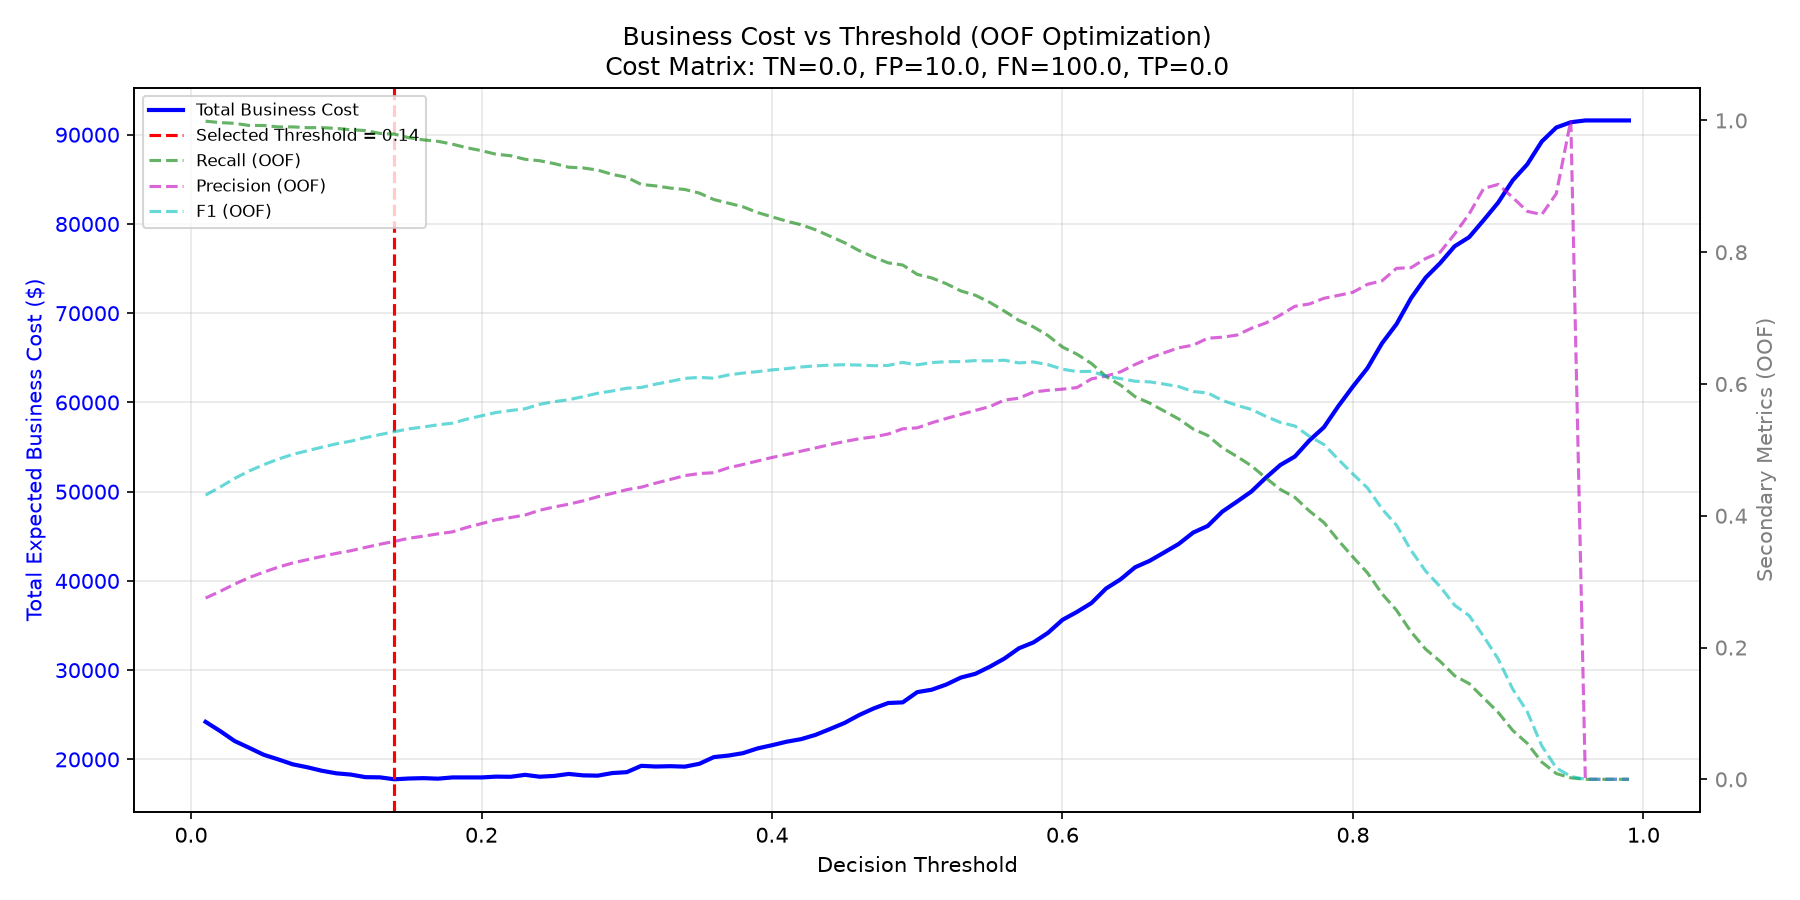
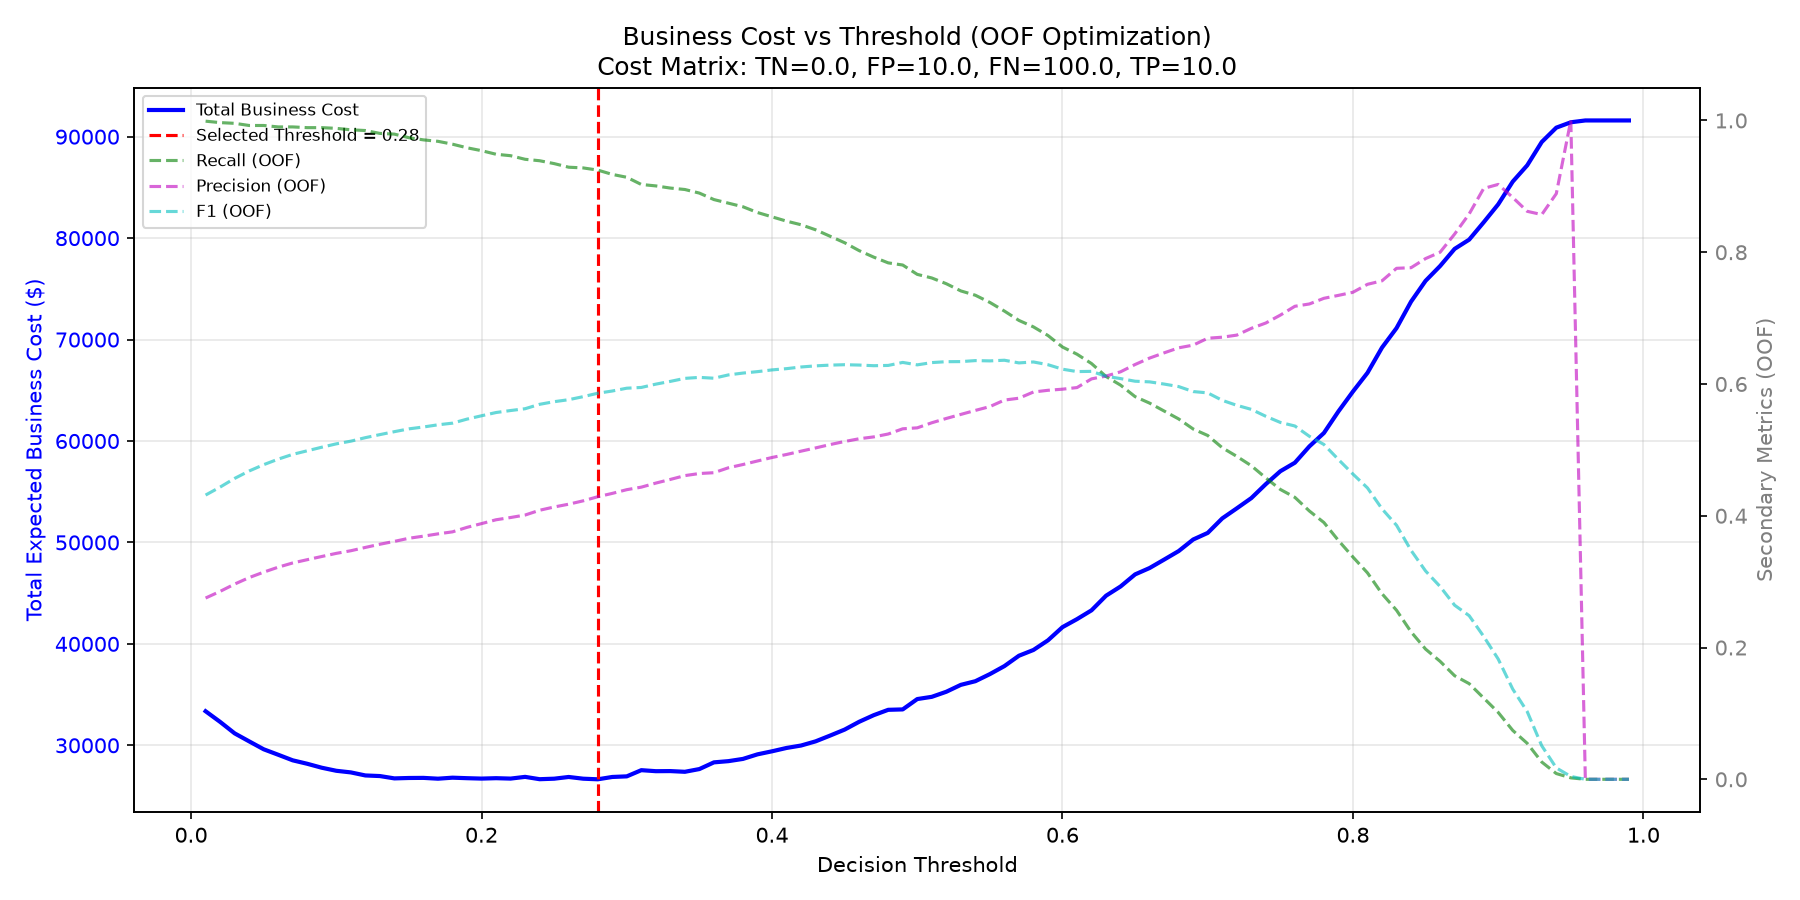
fix(phase11): correct default cost matrix TP to carry intervention cost

diff --git a/tests/test_business_threshold.py b/tests/test_business_threshold.py
@@ -47,7 +47,7 @@ class TestBusinessOptimization:
 
     def test_optimize_threshold_basic(self):
         y_true, y_proba = self._synthetic_oof_data()
-        costs = CostMatrix(cost_tn=0.0, cost_fp=10.0, cost_fn=100.0, cost_tp=0.0)
+        costs = CostMatrix(cost_tn=0.0, cost_fp=10.0, cost_fn=100.0, cost_tp=10.0)
         result = optimize_threshold_business(y_true, y_proba, costs)
         # With these costs, we expect the optimizer to favour higher recall
         # (i.e., lower threshold) because FN is expensive.
@@ -77,7 +77,7 @@ class TestBusinessOptimization:
         y_true, y_proba = self._synthetic_oof_data()
         # Balanced FP and FN costs → optimizer should pick threshold maximizing overall
         # accuracy (which is close to 0.5 for balanced data)
-        costs = CostMatrix(cost_tn=0.0, cost_fp=10.0, cost_fn=10.0, cost_tp=0.0)
+        costs = CostMatrix(cost_tn=0.0, cost_fp=10.0, cost_fn=10.0, cost_tp=10.0)
         result = optimize_threshold_business(y_true, y_proba, costs)
         # With symmetric costs, we expect threshold close to 0.5 (midpoint)
         assert 0.4 <= result.selected_threshold <= 0.6
@@ -86,12 +86,12 @@ class TestBusinessOptimization:
         y_true, y_proba = self._synthetic_oof_data()
         with pytest.raises(ValueError):
             # Negative FP cost
-            costs = CostMatrix(cost_tn=0.0, cost_fp=-5.0, cost_fn=10.0, cost_tp=0.0)
+            costs = CostMatrix(cost_tn=0.0, cost_fp=-5.0, cost_fn=10.0, cost_tp=10.0)
             optimize_threshold_business(y_true, y_proba, costs)
 
     def test_optimize_invalid_threshold_grid(self):
         y_true, y_proba = self._synthetic_oof_data()
-        costs = CostMatrix(cost_tn=0.0, cost_fp=10.0, cost_fn=100.0, cost_tp=0.0)
+        costs = CostMatrix(cost_tn=0.0, cost_fp=10.0, cost_fn=100.0, cost_tp=10.0)
         # Include an invalid threshold (>1) in custom grid
         with pytest.raises(ValueError):
             optimize_threshold_business(
@@ -104,7 +104,7 @@ class TestBusinessOptimization:
     def test_optimize_mismatch_lengths(self):
         y_true = [0, 1, 0]
         y_proba = [0.1, 0.9]
-        costs = CostMatrix(cost_tn=0.0, cost_fp=10.0, cost_fn=100.0, cost_tp=0.0)
+        costs = CostMatrix(cost_tn=0.0, cost_fp=10.0, cost_fn=100.0, cost_tp=10.0)
         with pytest.raises(ValueError):
             optimize_threshold_business(y_true, y_proba, costs)
 
@@ -124,7 +124,7 @@ class TestBusinessOptimization:
         y_true = [0, 0, 1, 1]
         # Probabilities produce same confusion matrix for thresholds 0.4 and 0.5
         y_proba = [0.2, 0.8, 0.6, 0.9]
-        costs = CostMatrix(cost_tn=0.0, cost_fp=10.0, cost_fn=100.0, cost_tp=0.0)
+        costs = CostMatrix(cost_tn=0.0, cost_fp=10.0, cost_fn=100.0, cost_tp=10.0)
         grid = [0.4, 0.5]
         result = optimize_threshold_business(y_true, y_proba, costs, threshold_grid=grid)
         # With equal cost, tie-breaking prefers higher recall → lower threshold (0.4)
@@ -133,14 +133,14 @@ class TestBusinessOptimization:
     def test_optimize_extreme_cost_scenario(self):
         # Scenario where FP cost is far higher than FN cost.
         y_true, y_proba = self._synthetic_oof_data()
-        costs = CostMatrix(cost_tn=0.0, cost_fp=200.0, cost_fn=10.0, cost_tp=0.0)
+        costs = CostMatrix(cost_tn=0.0, cost_fp=200.0, cost_fn=10.0, cost_tp=200.0)
         result = optimize_threshold_business(y_true, y_proba, costs)
         # In this case, optimizer should favour higher threshold to reduce FP.
         assert result.selected_threshold > 0.5
 
     def test_optimize_returns_all_results(self):
         y_true, y_proba = self._synthetic_oof_data()
-        costs = CostMatrix(cost_tn=0.0, cost_fp=10.0, cost_fn=100.0, cost_tp=0.0)
+        costs = CostMatrix(cost_tn=0.0, cost_fp=10.0, cost_fn=100.0, cost_tp=10.0)
         result = optimize_threshold_business(y_true, y_proba, costs)
         # Verify that all thresholds in the default grid are present.
         expected_len = len(build_business_threshold_grid())
@@ -149,7 +149,7 @@ class TestBusinessOptimization:
     def test_optimize_consistency(self):
         # Run optimizer twice with same data and ensure deterministic result.
         y_true, y_proba = self._synthetic_oof_data()
-        costs = CostMatrix(cost_tn=0.0, cost_fp=10.0, cost_fn=100.0, cost_tp=0.0)
+        costs = CostMatrix(cost_tn=0.0, cost_fp=10.0, cost_fn=100.0, cost_tp=10.0)
         r1 = optimize_threshold_business(y_true, y_proba, costs)
         r2 = optimize_threshold_business(y_true, y_proba, costs)
         assert r1.selected_threshold == r2.selected_threshold

diff --git a/tests/test_phase11_review.py b/tests/test_phase11_review.py
@@ -1,0 +1,92 @@
+"""Phase 11 PR #1 Review Fix Tests."""
+
+import pytest
+import numpy as np
+
+from customer_churn.business_cost import (
+    CostMatrix,
+    build_default_cost_matrix,
+    calculate_expected_cost,
+    compute_business_cost_metrics,
+)
+from customer_churn.business_threshold_optimizer import (
+    optimize_threshold_business,
+    run_business_optimization,
+)
+
+
+def test_default_cost_matrix():
+    """Default matrix must have TN=0, FP=10, FN=100, TP=10."""
+    costs = build_default_cost_matrix()
+    assert costs.cost_tn == 0.0
+    assert costs.cost_fp == 10.0
+    assert costs.cost_fn == 100.0
+    assert costs.cost_tp == 10.0
+
+
+def test_tp_intervention_cost():
+    """Verify TP incurs intervention cost in total cost formula."""
+    costs = CostMatrix(cost_tn=0.0, cost_fp=10.0, cost_fn=100.0, cost_tp=10.0)
+    # 0 TN, 0 FP, 0 FN, 5 TP
+    total_cost = calculate_expected_cost(tn=0, fp=0, fn=0, tp=5, costs=costs)
+    assert total_cost == 50.0  # 5 * 10.0
+
+
+def test_expected_cost_formula():
+    """Formula: TN * cost_tn + FP * cost_fp + FN * cost_fn + TP * cost_tp."""
+    costs = CostMatrix(cost_tn=1.0, cost_fp=2.0, cost_fn=3.0, cost_tp=4.0)
+    total_cost = calculate_expected_cost(tn=10, fp=5, fn=2, tp=8, costs=costs)
+    expected = 10 * 1.0 + 5 * 2.0 + 2 * 3.0 + 8 * 4.0
+    assert total_cost == expected
+
+
+def test_threshold_optimizer_deterministic():
+    """Optimizer should return exact same results given same inputs."""
+    costs = build_default_cost_matrix()
+    y_true = np.array([0, 1, 0, 1, 0, 1])
+    y_proba = np.array([0.1, 0.8, 0.2, 0.7, 0.4, 0.6])
+
+    res1 = optimize_threshold_business(y_true, y_proba, costs)
+    res2 = optimize_threshold_business(y_true, y_proba, costs)
+
+    assert res1.selected_threshold == res2.selected_threshold
+    assert res1.selected_metrics == res2.selected_metrics
+
+
+def test_optimization_uses_oof_not_test():
+    """Ensure run_business_optimization uses OOF and never touches the test set."""
+    result = run_business_optimization()
+    assert "OOF" in result.optimization_data_source
+    assert result.test_set_used_for_optimization is False
+
+
+def test_optimizer_does_not_read_test_split(monkeypatch):
+    """Guard against test-set leakage: optimizer must not load the test split."""
+    import customer_churn.threshold as threshold_mod
+    import customer_churn.features as features_mod
+
+    forbidden: list[str] = []
+
+    def fake_get_oof_predictions():
+        # Synthetic OOF stand-in; spy ensures threshold path stays train-only.
+        return (
+            np.array([0, 1, 0, 1, 0, 1]),
+            np.array([0.1, 0.8, 0.2, 0.7, 0.4, 0.6]),
+        )
+
+    original_load = features_mod.load_data
+
+    def spy_load_data(split, *args, **kwargs):
+        if split == "test":
+            forbidden.append("test")
+        return original_load(split, *args, **kwargs)
+
+    monkeypatch.setattr(threshold_mod, "get_oof_predictions", fake_get_oof_predictions)
+    # threshold.py binds load_data at import time; patch its namespace too.
+    monkeypatch.setattr(features_mod, "load_data", spy_load_data)
+    monkeypatch.setattr(threshold_mod, "load_data", spy_load_data)
+
+    result = run_business_optimization()
+
+    assert forbidden == []
+    assert 0.0 <= result.selected_threshold <= 1.0

diff --git a/src/customer_churn/business_cost.py b/src/customer_churn/business_cost.py
@@ -28,10 +28,10 @@ class BusinessCostConfig(TypedDict):
         - FP: Churn predicted but customer stays. Cost = retention campaign
               outreach expense (customer receives an unnecessary retention
               offer, e.g., a discount or incentive).
+        - TP: Churn predicted and customer churns but is targeted for
+              intervention. Cost = retention campaign outreach expense.
         - FN: No churn predicted but customer churns. Cost = lost customer
               lifetime value (customer leaves without being retained).
-        - TP: Churn predicted and customer is retained. Cost = 0 (correct
-              intervention avoids churn).
 
     The FN/FP ratio is the key driver of threshold placement.
     """
@@ -183,7 +183,7 @@ def cost_per_predicted_churn(
     n_predicted_churn = fp + tp
     if n_predicted_churn == 0:
         return 0.0
-    # Only FP has cost in prediction context (TP interventions are "correct")
+    # Both FP and TP receive intervention (TP interventions are "correct" but still cost money)
     total_cost = fp * costs.cost_fp + tp * costs.cost_tp
     return total_cost / n_predicted_churn
 
@@ -306,12 +306,16 @@ def build_default_cost_matrix() -> CostMatrix:
 
     These values are illustrative assumptions only.
     They represent a telecom churn scenario where missing a churner (FN)
-    is more costly than an unnecessary retention intervention (FP).
+    is more costly than a retention intervention (FP/TP).
 
     Assumption rationale:
-        - A customer lifetime value (CLV) for telecom churn is ~$500-800
-        - A retention offer costs ~$5-20 per customer
-        - We use FN/FN ratio of 10:1 (FN is 10x more expensive than FP)
+        - FP: Cost of retention intervention given to customer who stays.
+        - TP: Cost of retention intervention given to customer who churns.
+        - Since both receive intervention, cost_fp and cost_tp are equal.
+        - FN: Opportunity/loss cost when customer churns without detection.
+        - TN: No action, no cost.
+        - We use illustrative values: FN=100, FP=10, TP=10, TN=0.
+        - This maintains FN/FP ratio of 10:1.
 
     These are scenario assumptions. Replace with real business values
     before production use.
@@ -320,7 +324,7 @@ def build_default_cost_matrix() -> CostMatrix:
         cost_tn=0.0,
         cost_fp=10.0,
         cost_fn=100.0,
-        cost_tp=0.0,
+        cost_tp=10.0,
         label="illustrative default: FN=10x FP",
     )
 

diff --git a/src/customer_churn/business_threshold_optimizer.py b/src/customer_churn/business_threshold_optimizer.py
@@ -220,7 +220,7 @@ def run_business_optimization(
             cost_tn=0.0,
             cost_fp=10.0,
             cost_fn=100.0,
-            cost_tp=0.0,
+            cost_tp=10.0,
             label="illustrative default: FN=10x FP",
         )
 
@@ -249,35 +249,35 @@ def build_sensitivity_scenarios() -> list[CostMatrix]:
             cost_tn=0.0,
             cost_fp=10.0,
             cost_fn=10.0,
-            cost_tp=0.0,
+            cost_tp=10.0,
             label="Scenario A: FN and FP balanced (1:1)",
         ),
         CostMatrix(
             cost_tn=0.0,
             cost_fp=10.0,
             cost_fn=50.0,
-            cost_tp=0.0,
+            cost_tp=10.0,
             label="Scenario B: FN moderately more expensive (5x FP)",
         ),
         CostMatrix(
             cost_tn=0.0,
             cost_fp=10.0,
             cost_fn=100.0,
-            cost_tp=0.0,
+            cost_tp=10.0,
             label="Scenario C: FN more expensive (10x FP)",
         ),
         CostMatrix(
             cost_tn=0.0,
             cost_fp=10.0,
             cost_fn=200.0,
-            cost_tp=0.0,
+            cost_tp=10.0,
             label="Scenario D: FN very expensive (20x FP)",
         ),
         CostMatrix(
             cost_tn=0.0,
             cost_fp=50.0,
             cost_fn=100.0,
-            cost_tp=0.0,
+            cost_tp=50.0,
             label="Scenario E: FP more expensive than FN (0.5x)",
         ),
     ]
@@ -615,7 +615,7 @@ def run_phase11(
             cost_tn=0.0,
             cost_fp=10.0,
             cost_fn=100.0,
-            cost_tp=0.0,
+            cost_tp=10.0,
             label="illustrative default: FN=10x FP",
         )
 

diff --git a/tests/test_business_cost.py b/tests/test_business_cost.py
@@ -118,8 +118,8 @@ class TestComputeBusinessCostMetrics:
     """Test full business cost metrics computation from y_true/y_proba."""
 
     def test_perfect_predictions(self):
-        """Perfect predictions yield minimum possible cost."""
-        costs = CostMatrix(cost_tn=0.0, cost_fp=10.0, cost_fn=100.0, cost_tp=0.0)
+        """Perfect predictions yield minimum cost (intervention cost for TPs)."""
+        costs = CostMatrix(cost_tn=0.0, cost_fp=10.0, cost_fn=100.0, cost_tp=10.0)
         y_true = [0, 0, 1, 1]
         y_proba = [0.1, 0.2, 0.9, 0.8]
         result = compute_business_cost_metrics(
@@ -129,13 +129,13 @@ class TestComputeBusinessCostMetrics:
         assert result["fp"] == 0
         assert result["fn"] == 0
         assert result["tp"] == 2
-        assert result["total_cost"] == 0.0
+        assert result["total_cost"] == 2 * 10.0  # Only TP intervention costs
         assert result["precision"] == 1.0
         assert result["recall"] == 1.0
 
     def test_worst_predictions(self):
         """Worst predictions yield maximum cost."""
-        costs = CostMatrix(cost_tn=0.0, cost_fp=10.0, cost_fn=100.0, cost_tp=0.0)
+        costs = CostMatrix(cost_tn=0.0, cost_fp=10.0, cost_fn=100.0, cost_tp=10.0)
         y_true = [0, 0, 1, 1]
         y_proba = [0.9, 0.8, 0.1, 0.2]
         result = compute_business_cost_metrics(
